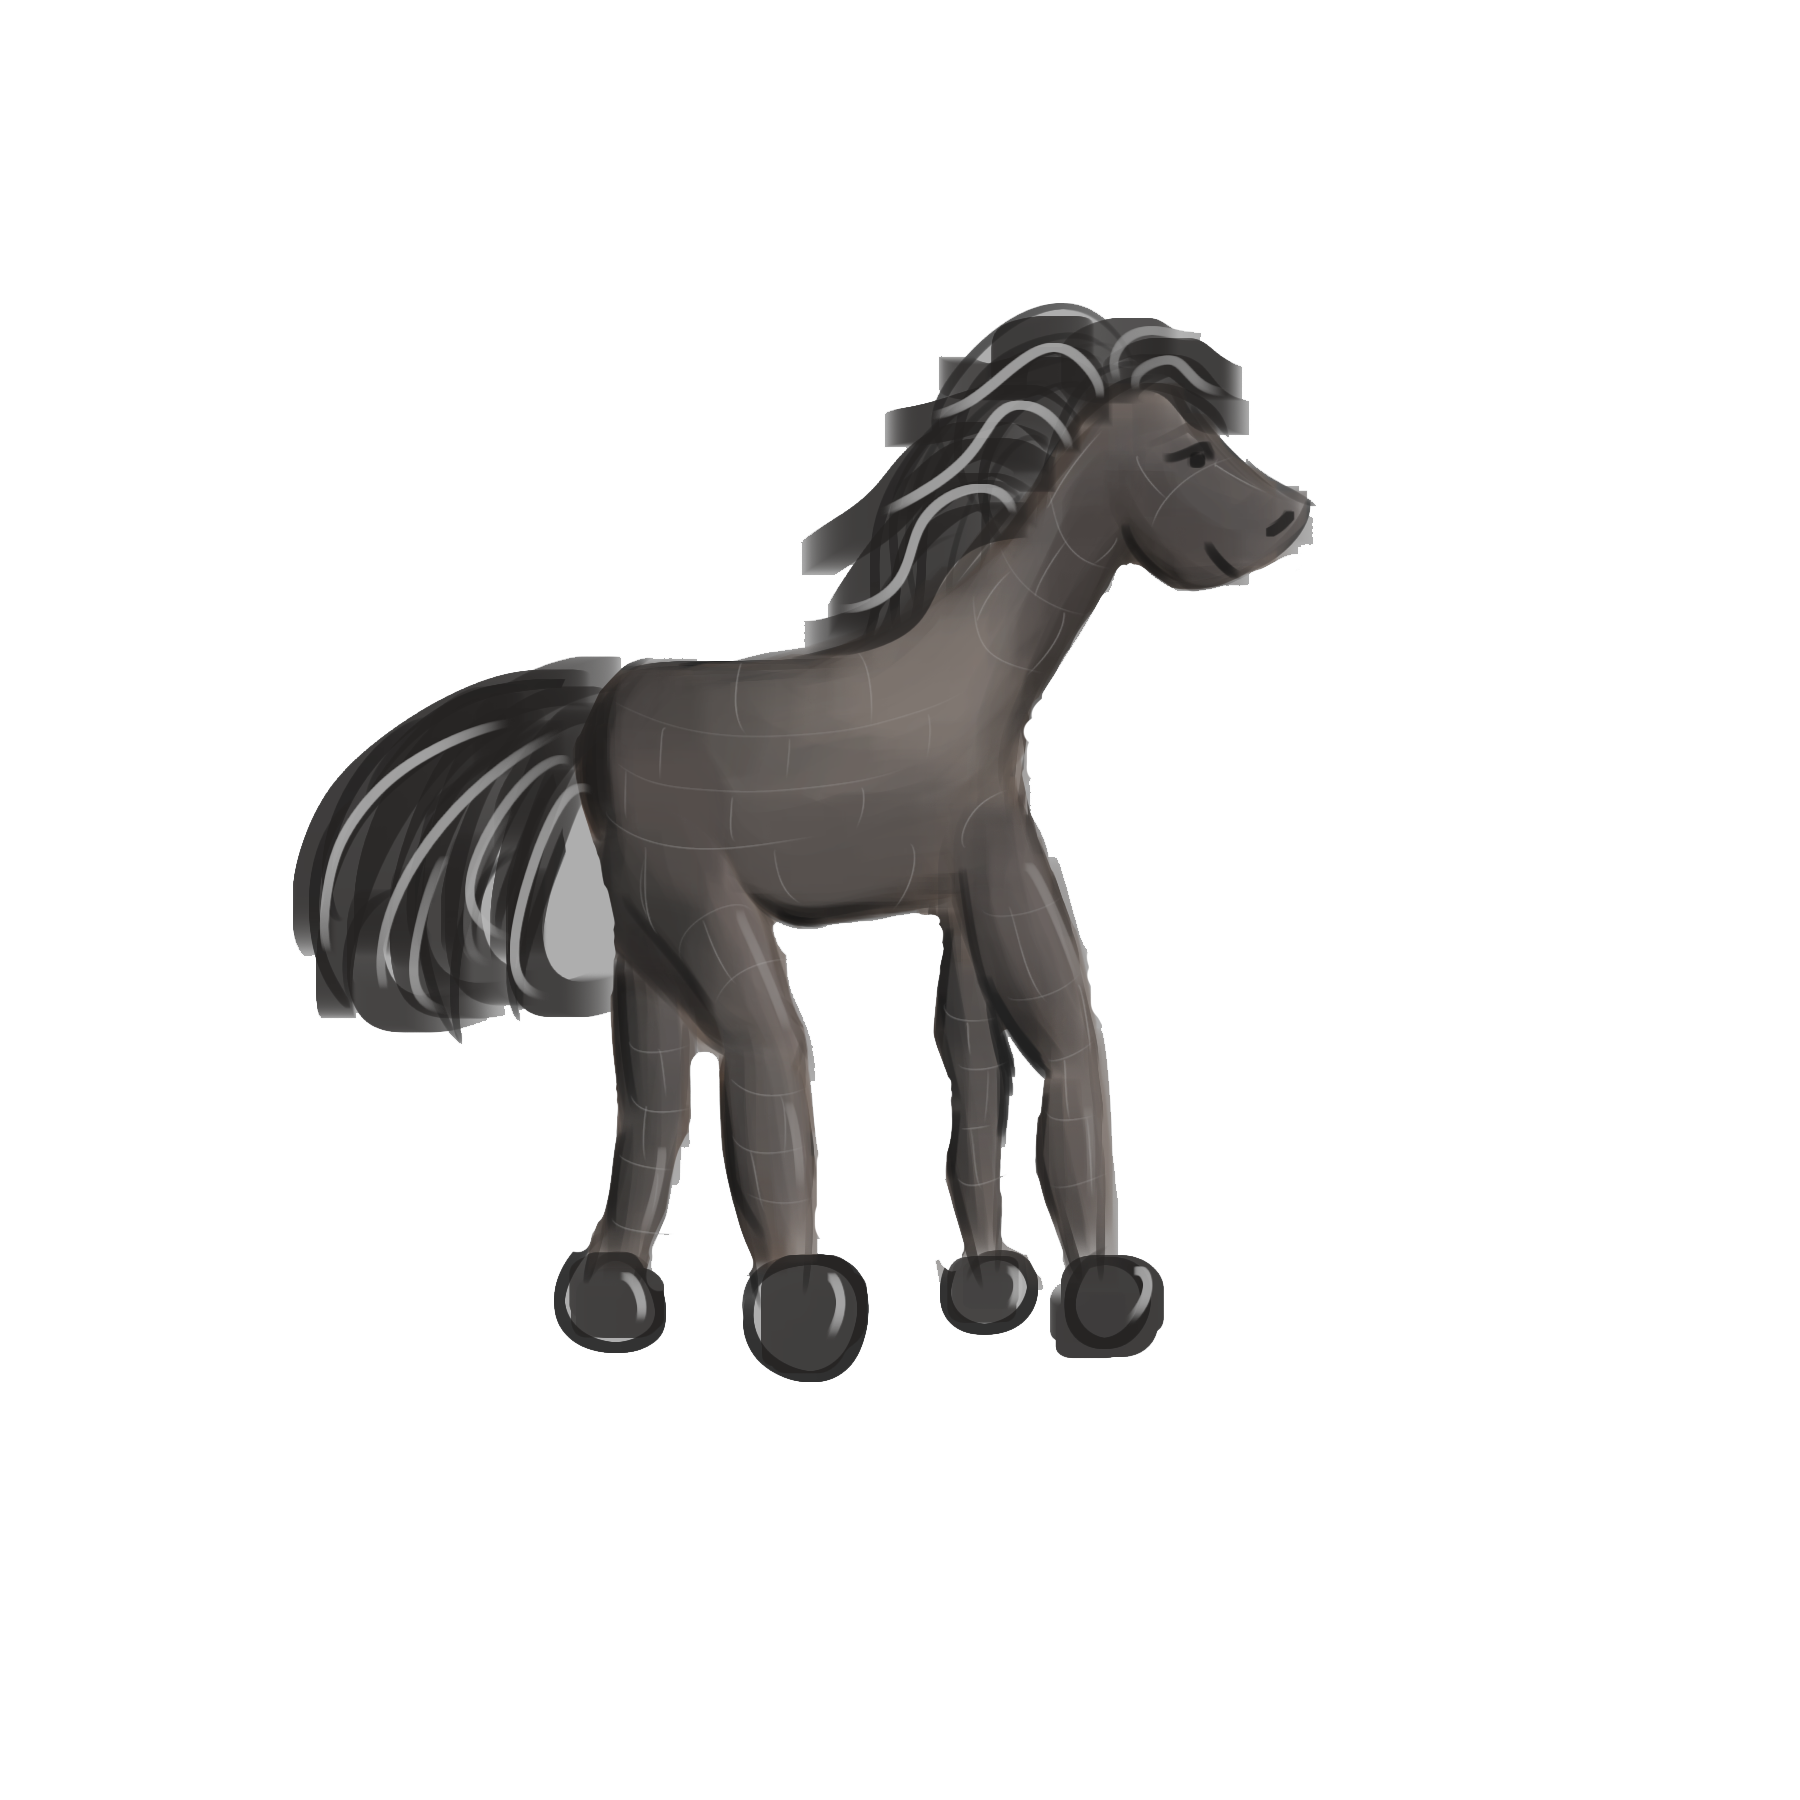
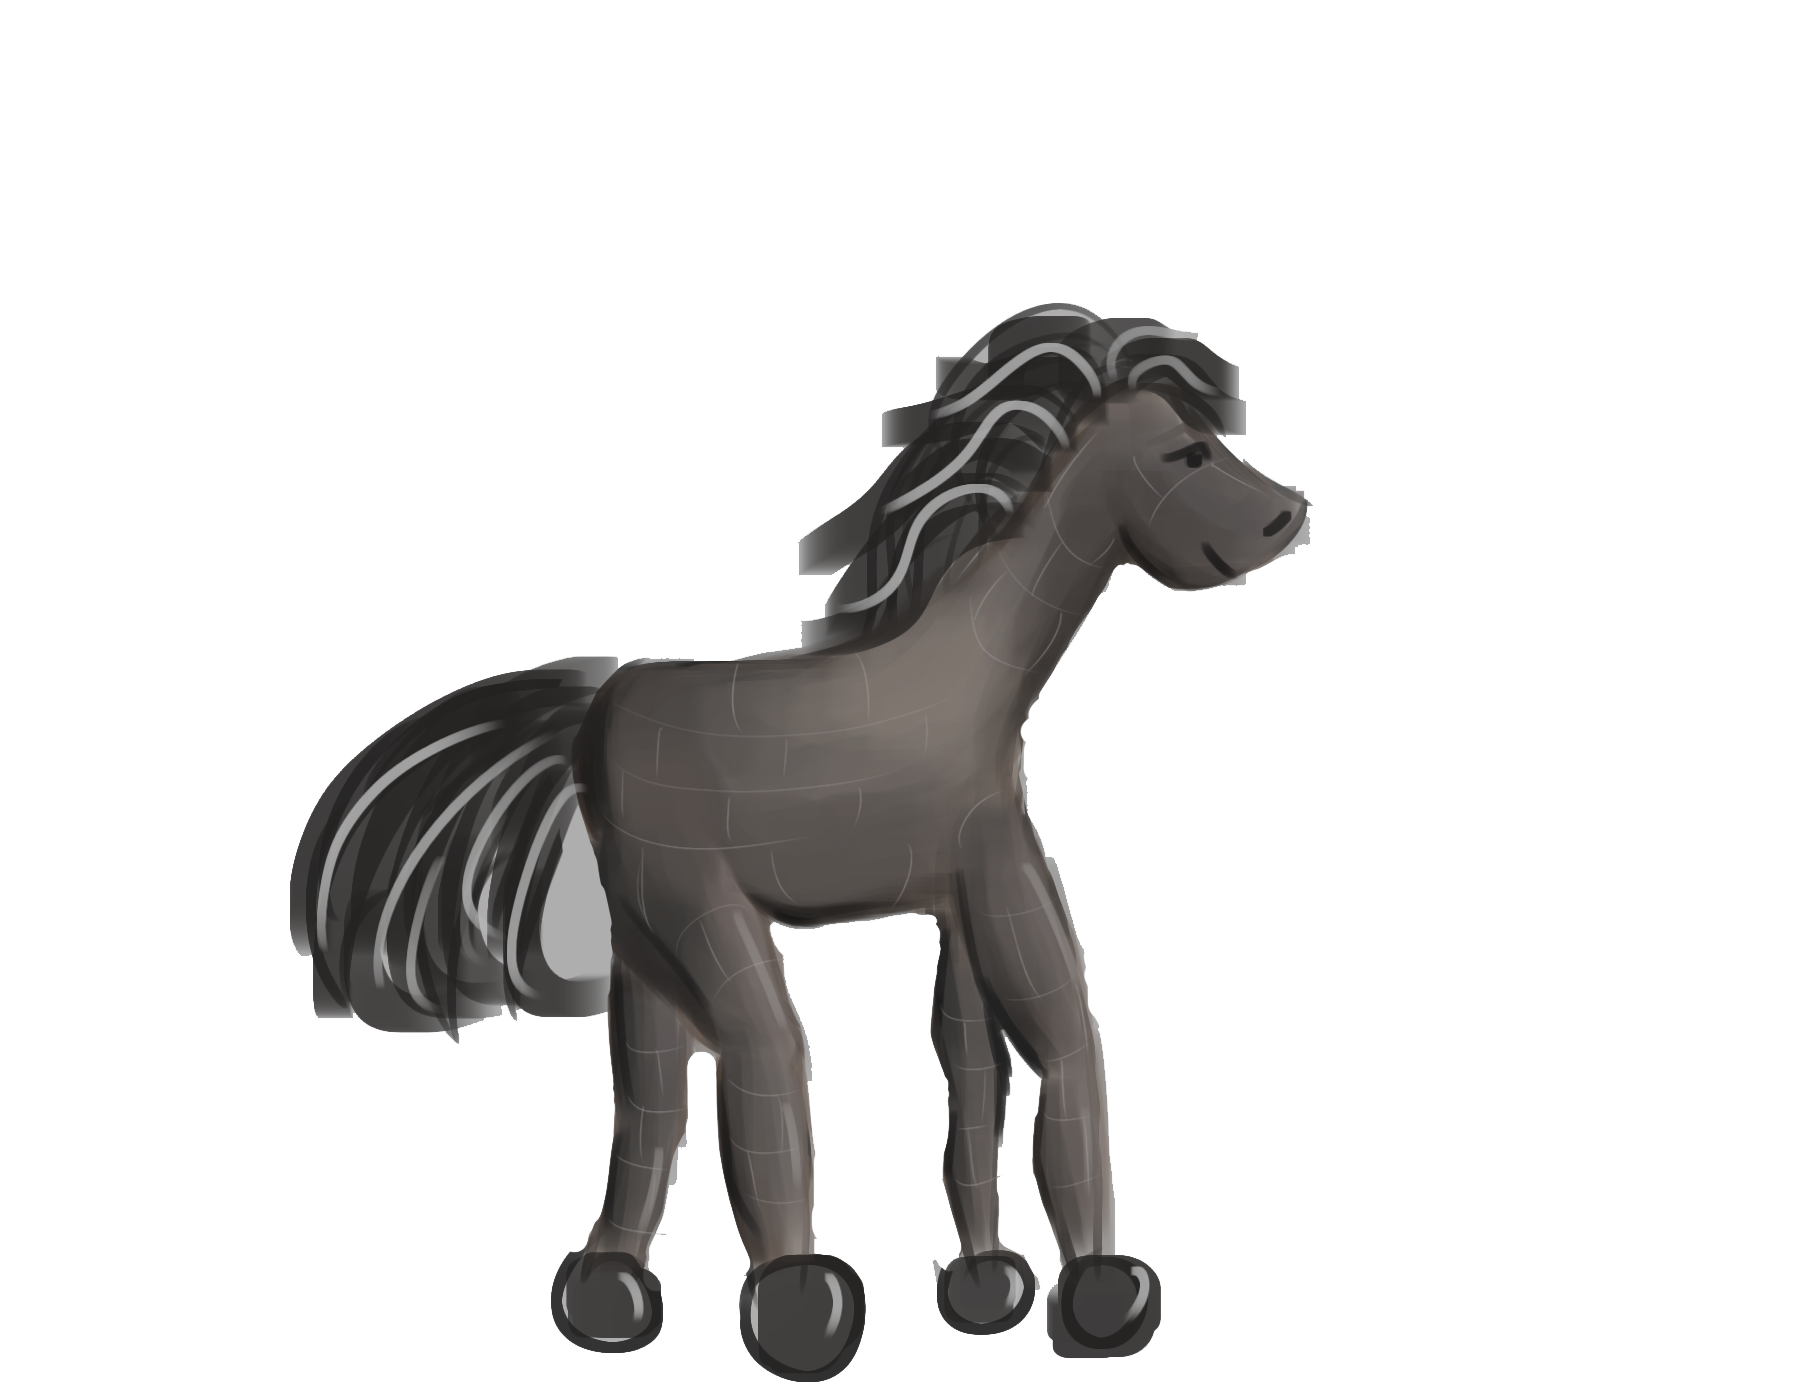
added horsey

Changed region(s): [[0.1562, 0.154, 0.7496, 1.0]]

diff --git a/LiveGame/js/town.js b/LiveGame/js/town.js
@@ -5,7 +5,7 @@ class town extends Phaser.Scene {
 
     preload () {
         this.load.image('background', 'assets/SiegeOfTroy.png');
-        this.load.image('Horse 2', 'assets/SiegeOfTroy.png');
+        this.load.image('horsey','assets/Horse 2 invisible background.png');
         this.load.spritesheet('main', 'assets/Main.png', { frameWidth: 48, frameHeight: 48});
         this.load.spritesheet('guard', 'assets/Guard.png', {frameWidth: 48, frameHeight: 48});
     }
@@ -27,8 +27,12 @@ class town extends Phaser.Scene {
             Main character inclusion
             Regains HP in new scene
         */
+         horsey = this.physics.add.image(2000, 300, 'horsey');
+         horsey.setCollideWorldBounds(true);
+         horsey.displayHeight = heightGameII * 0.8;
+         horsey.displayWidth = widthGameII * 0.5;
+
         mainCharacter = this.physics.add.sprite(100, 450, 'main');
-        
         mainCharacter.setCollideWorldBounds(true);
         mainCharacter.displayHeight = heightGameII * 0.3;
         mainCharacter.displayWidth = widthGameII * 0.15;

diff --git a/LiveGame/js/field.js b/LiveGame/js/field.js
@@ -37,6 +37,8 @@ class field extends Phaser.Scene {
             Main character health
             Main character keyboard animation motions
         */
+
+        
         mainCharacter = this.physics.add.sprite(100, 450, 'main');
         
         mainCharacter.setCollideWorldBounds(true);
